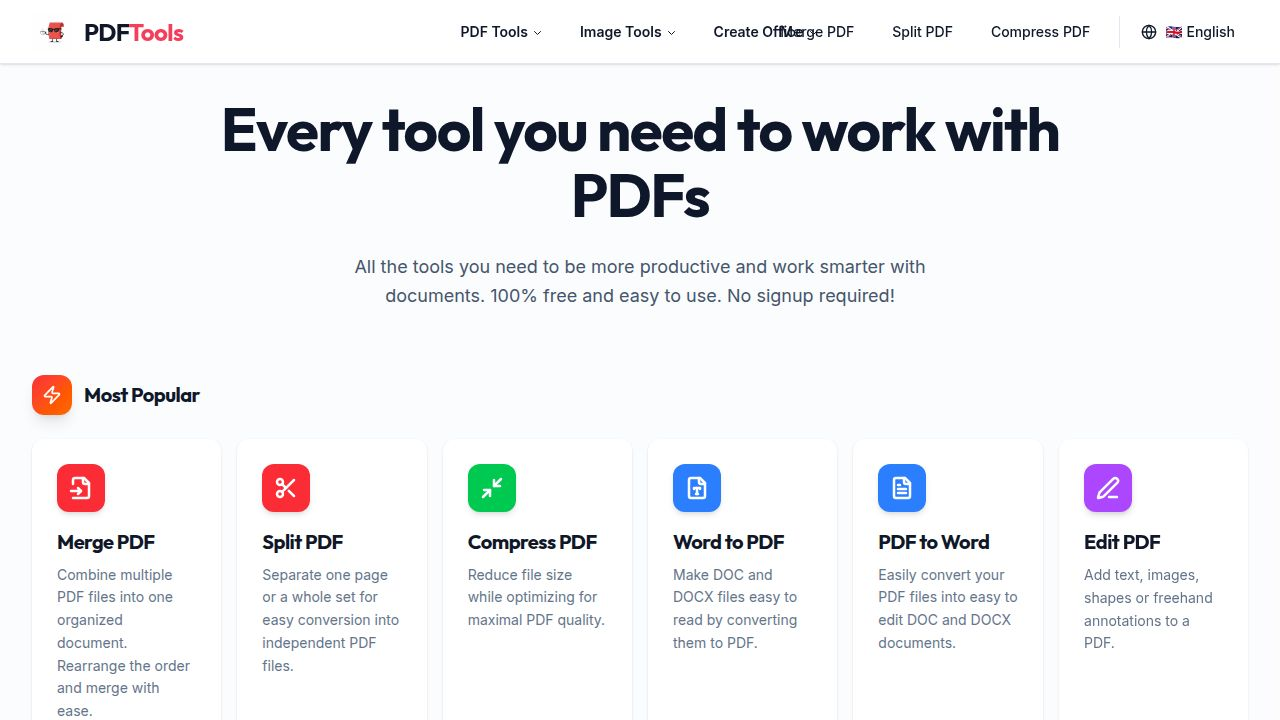
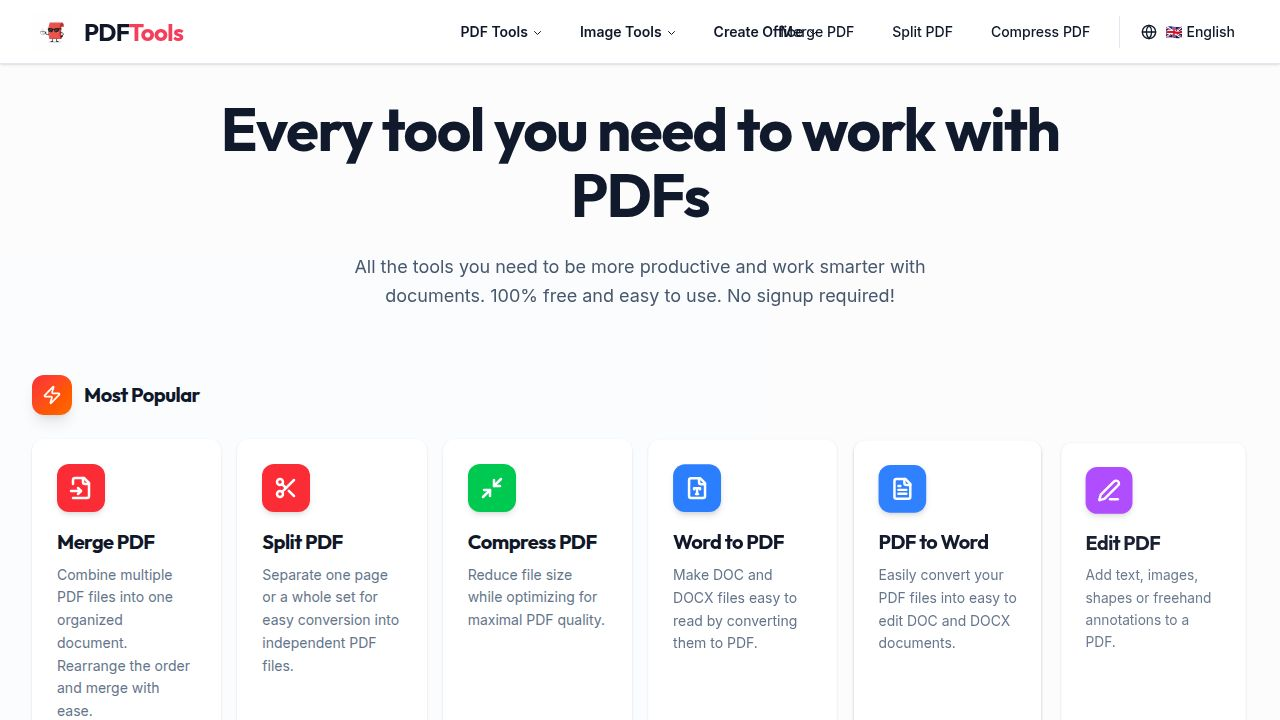
Add inline styles to the document editor for improved appearance
Remove the external TinyMCE skin CSS import and inject critical UI styles inline using a useEffect hook in the DocumentEditor component to resolve CORS issues in production.

Replit-Commit-Author: Agent
Replit-Commit-Session-Id: 5ad5eb12-0202-40aa-a2fa-4f4e6330bcaf
Replit-Commit-Checkpoint-Type: full_checkpoint
Replit-Commit-Event-Id: 75228792-9e98-4bd0-b2c8-3fe9bcba0bc5
Replit-Commit-Screenshot-Url: https://storage.googleapis.com/screenshot-production-us-central1/c1bab7e9-db90-4a2c-a9a1-23b9b05d55a7/5ad5eb12-0202-40aa-a2fa-4f4e6330bcaf/CaNocYD
Replit-Helium-Checkpoint-Created: true

diff --git a/client/src/components/tools/DocumentEditor.tsx b/client/src/components/tools/DocumentEditor.tsx
@@ -30,7 +30,95 @@ import "tinymce/plugins/nonbreaking";
 import "tinymce/plugins/visualchars";
 import "tinymce/plugins/save";
 import "tinymce/plugins/directionality";
-import "tinymce/skins/ui/oxide/skin.css";
+
+const tinymceInlineStyles = `
+.tox .tox-toolbar, .tox .tox-toolbar__overflow, .tox .tox-toolbar__primary {
+  background-color: #f4f4f4 !important;
+  border-bottom: 1px solid #e3e3e3 !important;
+}
+.tox .tox-toolbar__group {
+  border-right: 1px solid #e3e3e3 !important;
+  padding: 0 4px !important;
+}
+.tox .tox-tbtn {
+  color: #333 !important;
+  border-radius: 4px !important;
+  margin: 2px !important;
+}
+.tox .tox-tbtn:hover, .tox .tox-tbtn--enabled {
+  background-color: #e0e0e0 !important;
+}
+.tox .tox-tbtn--select {
+  min-width: 80px !important;
+}
+.tox .tox-split-button:hover {
+  box-shadow: none !important;
+}
+.tox .tox-edit-area {
+  border: none !important;
+}
+.tox .tox-edit-area__iframe {
+  background-color: #fff !important;
+}
+.tox .tox-statusbar {
+  background-color: #f4f4f4 !important;
+  border-top: 1px solid #e3e3e3 !important;
+}
+.tox .tox-menubar {
+  background-color: #f4f4f4 !important;
+  border-bottom: 1px solid #e3e3e3 !important;
+}
+.tox .tox-mbtn {
+  color: #333 !important;
+}
+.tox .tox-mbtn:hover {
+  background-color: #e0e0e0 !important;
+}
+.tox-tinymce {
+  border: 1px solid #e3e3e3 !important;
+  border-radius: 8px !important;
+  overflow: hidden !important;
+}
+.tox .tox-editor-header {
+  box-shadow: none !important;
+  border-bottom: 1px solid #e3e3e3 !important;
+}
+.tox .tox-menu {
+  background-color: #fff !important;
+  border: 1px solid #e3e3e3 !important;
+  border-radius: 6px !important;
+  box-shadow: 0 4px 12px rgba(0,0,0,0.15) !important;
+}
+.tox .tox-collection__item {
+  color: #333 !important;
+}
+.tox .tox-collection__item--active {
+  background-color: #e8f4fc !important;
+}
+.tox .tox-dialog {
+  border-radius: 8px !important;
+  box-shadow: 0 8px 24px rgba(0,0,0,0.2) !important;
+}
+.tox .tox-dialog__header {
+  background-color: #f4f4f4 !important;
+  border-bottom: 1px solid #e3e3e3 !important;
+}
+.tox .tox-dialog__footer {
+  background-color: #f4f4f4 !important;
+  border-top: 1px solid #e3e3e3 !important;
+}
+.tox .tox-button {
+  border-radius: 6px !important;
+}
+.tox .tox-button--primary {
+  background-color: #3b82f6 !important;
+  border-color: #3b82f6 !important;
+}
+.tox .tox-button--primary:hover {
+  background-color: #2563eb !important;
+  border-color: #2563eb !important;
+}
+`;
 
 interface DocumentEditorProps {
   onOptionsChange: (options: any) => void;
@@ -45,6 +133,20 @@ export function DocumentEditor({ onOptionsChange, initialContent = "" }: Documen
   const onOptionsChangeRef = useRef(onOptionsChange);
 
   onOptionsChangeRef.current = onOptionsChange;
+
+  useEffect(() => {
+    const styleId = "tinymce-inline-styles";
+    if (!document.getElementById(styleId)) {
+      const styleEl = document.createElement("style");
+      styleEl.id = styleId;
+      styleEl.textContent = tinymceInlineStyles;
+      document.head.appendChild(styleEl);
+    }
+    return () => {
+      const el = document.getElementById(styleId);
+      if (el) el.remove();
+    };
+  }, []);
 
   useEffect(() => {
     if (isReady && content) {